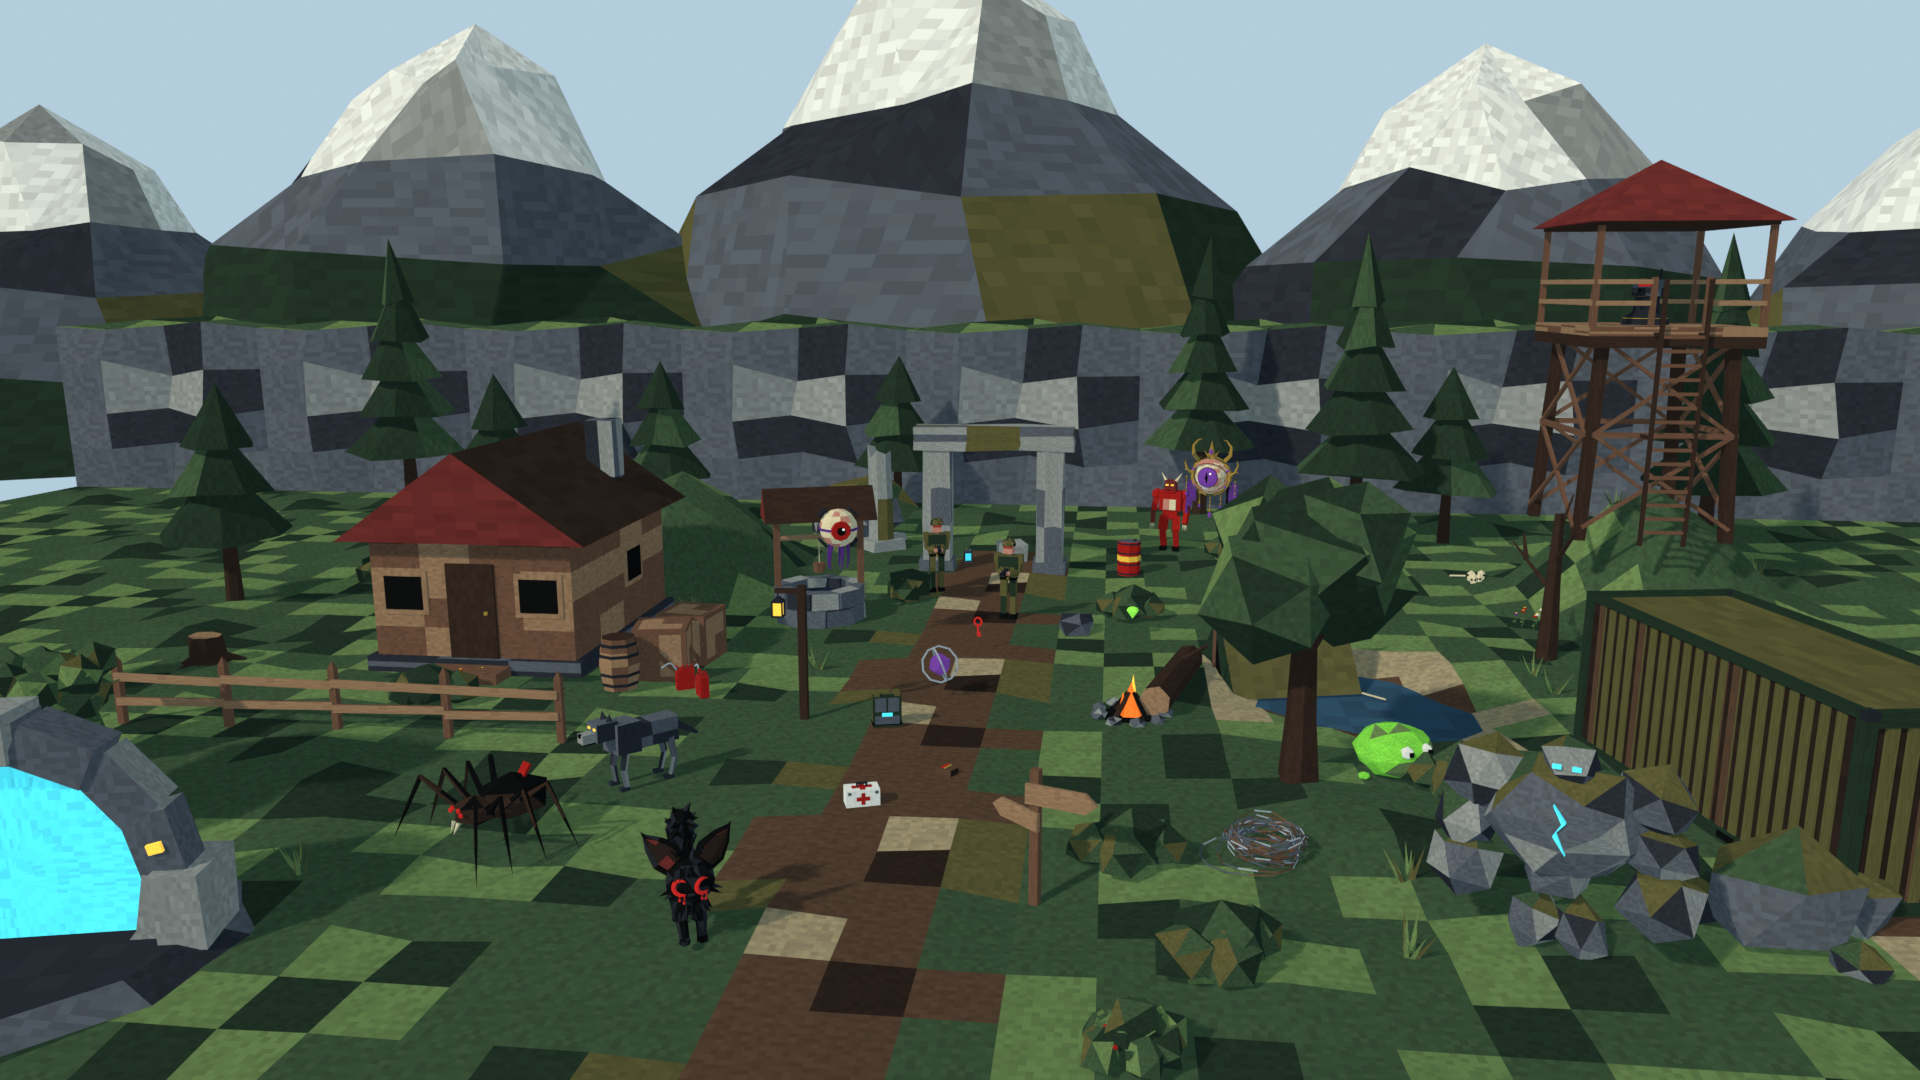
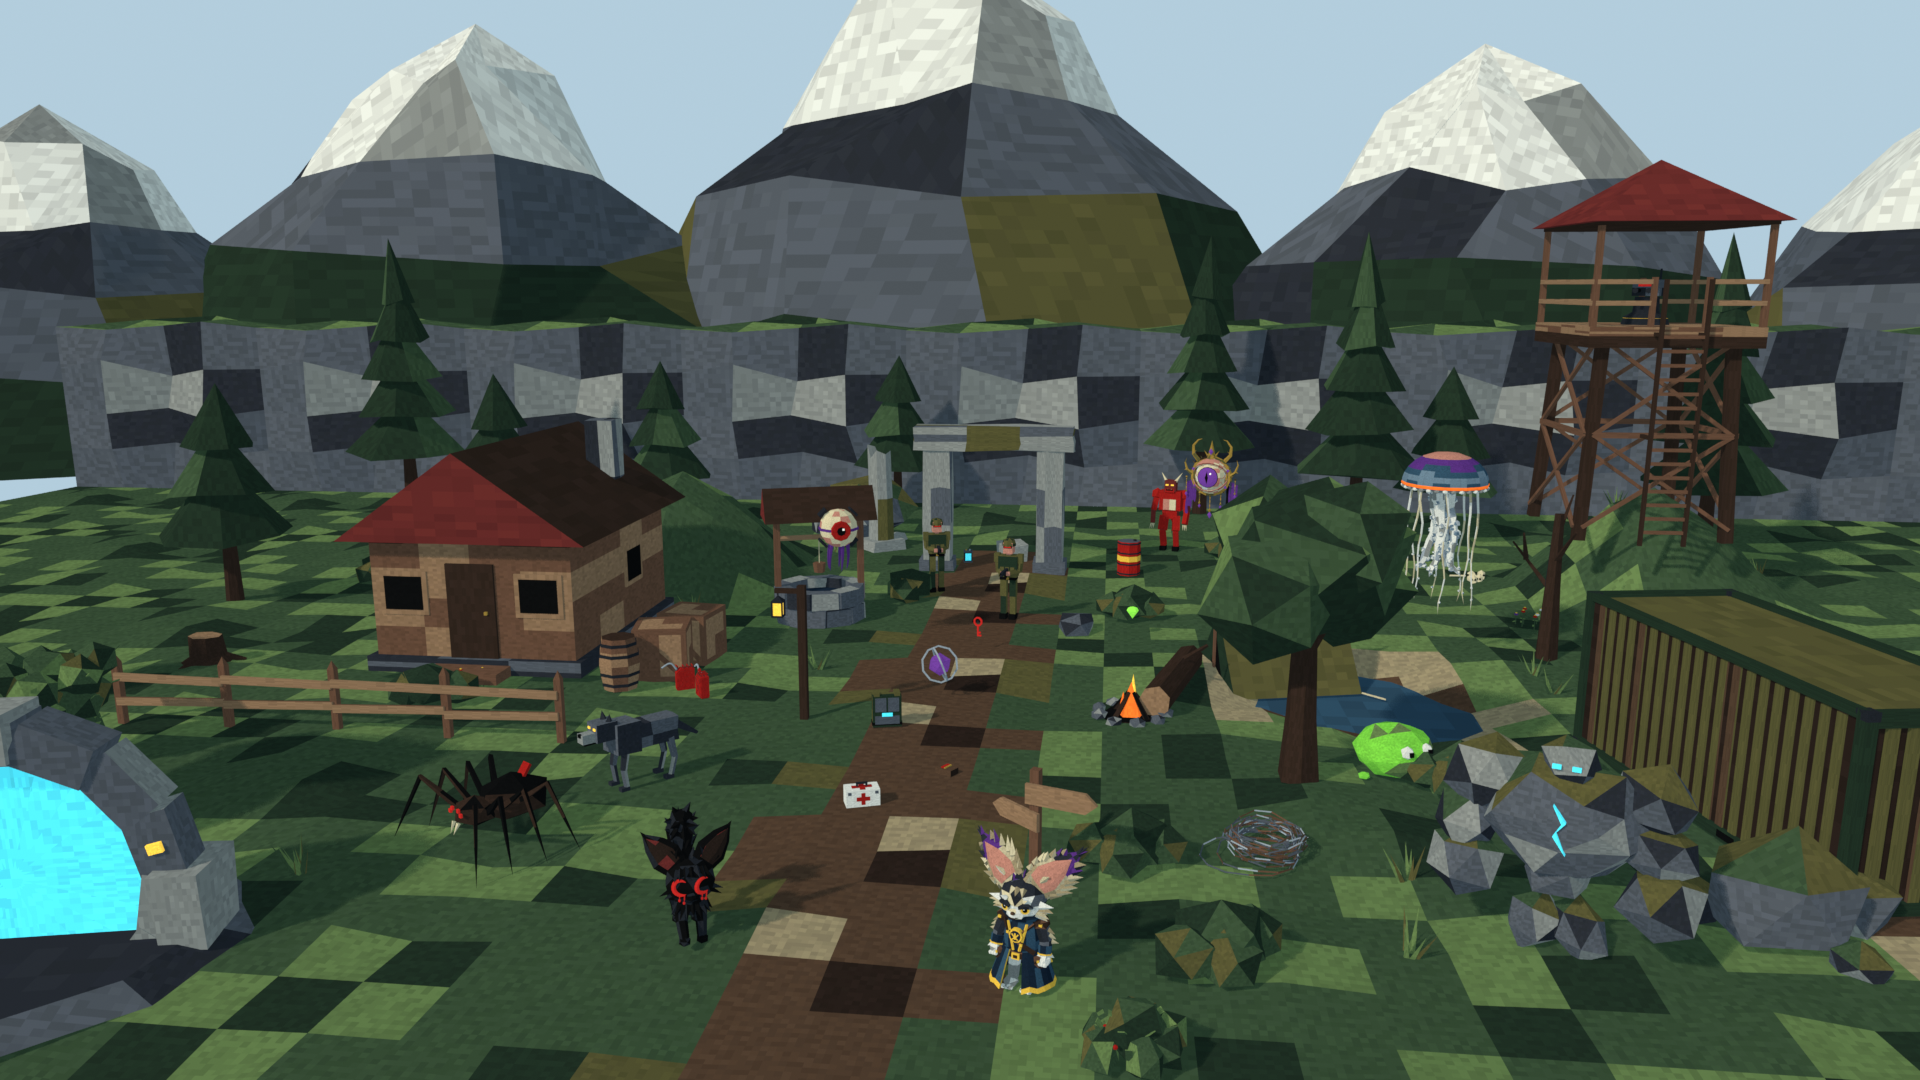
Show the lynx ranger and jellyfish in the README and the showcase
The showcase scene places the lynx ranger on the dirt path beside the shadow cat and
the jellyfish hovering over the pond, and is re-rendered. The README's intro now
describes the island and its creatures, the enemies notes list the two new models
among the rigged ones, and their thumbnails follow those notes.

Changed region(s): [[0.7188, 0.3972, 0.7812, 0.55], [0.5, 0.7639, 0.5625, 0.9167]]

diff --git a/tools/render_previews.py b/tools/render_previews.py
@@ -349,6 +349,8 @@ def showcase(cam, sun):
     place("enemy_floating_eye", -2.5, 1.5, lift=2.6, rot=20)
     place("enemy_shadow_cat", -1.8, -10.5, rot=25)
     place("enemy_arcane_eye", 5.5, 7.5, lift=3.0, rot=-20)
+    place("enemy_lynx_ranger", 2.2, -11.2, rot=-20)
+    place("enemy_jellyfish", 9.5, 1.5, lift=3.9, rot=15)
     place("pickup_medkit", -0.5, -6.5, rot=20)
     place("pickup_ammo_shells", 0.6, -5.2, rot=-30)
     place("powerup_quad_damage", 0, -1.5, lift=0.3)

diff --git a/README.md b/README.md
@@ -2,7 +2,7 @@
 
 ![In game: a rocket sets off the gas cans at the outpost, throwing barrels into the air, with a demon and a floating eye nearby](docs/screenshot.jpg)
 
-A first-person shooter with a PS1 look, made in Godot 4. Hunt floating eyes, electric rock golems and toxin-spitting giant spiders across a hilly valley of pine groves, a village, an outpost and ruins. Blow up gas cans and barrels, collect gems and step through linked portals. Every model and sound is generated by scripts in `tools/`.
+A first-person shooter with a PS1 look, made in Godot 4. Hunt floating eyes, electric rock golems and toxin-spitting giant spiders across a hilly valley of pine groves, a village, an outpost and ruins. Or visit a small island in an open sea, where a shadow cat with a spiked tail prowls the beach, a lynx ranger in a navy coat potters about, and an arcane eye and a big jellyfish drift overhead. Blow up gas cans and barrels, collect gems and step through linked portals. Every model and sound is generated by scripts in `tools/`.
 
 The game is in `godot/`. See [godot/README.md](godot/README.md) for how to run it, the controls and how the code fits together.
 
@@ -55,4 +55,6 @@ The texture sampler is set to nearest filtering. For the full PS1 look, also tur
 - **assets/pickups/**: origin at the base, sized about 0.3–0.7 m. Spin or bob them in game.
 - **assets/viewmodel/**: first-person arm parts: right and left hands closed around a pistol-style grip, a left support hand for barrels and handguards, and a forearm with a jacket sleeve. Each hand's origin is the centre of what it holds. The forearm's origin is the wrist, and it runs 0.7 m toward the elbow.
 - **assets/ammo/**: one round per ammo type (bullet, shotgun shell, rocket, plasma cell) for the HUD ammo counter. Origin at the base, standing upright, real-world scale.
-- **assets/enemies/**: origin at the feet, facing +Z. `enemy_floating_eye` has its origin at its center, so hover it in game. It, `enemy_spider`, `enemy_shadow_cat` and `enemy_arcane_eye` (below) are rigged: each of the eye's five tentacles is skinned to a four-bone chain (`tentacle_<k>_0` at the root to `tentacle_<k>_3` at the tip) under a `body` bone, and each of the spider's eight legs to two bones, `leg_<side>_<k>_0` (hip to knee) and `leg_<side>_<k>_1` (knee to toe), side `l` or `r` and k = 0 at the front, under a `body` bone that carries the rest of it, so they can be posed or animated. The other models are static meshes. `enemy_golem` has no legs: its origin is under its two hip boulders, and the game floats it on electric arcs. `enemy_shadow_cat` is a black chibi cat about 1.4 m tall to its ear tips (1.0 × 1.5 m across and long), caught mid-stride with its right forepaw raised (the raised leg's segments match the planted one's, so it can be walked): an oversized head with huge leaf-shaped ears, glowing red crescent eyes (`PS1_Glow`) that drip down its face, spiky fur at its brow, cheeks and chest, and a bushy, bristling tail curling up over its back. It's rigged for animation, with its rest pose as modeled. Sides are the cat's own: `l` is +X and `r` is -X. The bones are `hips` (the root, at the rump) > `chest` > `neck` > `head` > `ear_<side>_0` > `ear_<side>_1` (each ear bends a third of the way up). The front legs hang from `chest` as `leg_f<side>_0` (shoulder to elbow) > `leg_f<side>_1` (to the wrist) > `paw_f<side>`. The hind legs hang from `hips` as `leg_b<side>_0` (hip to knee) > `leg_b<side>_1` (to the hock) > `leg_b<side>_2` (to the ankle) > `paw_b<side>`. The tail is a chain from `hips`, `tail_0` at its root to `tail_5` at its tip. The eyes and head tufts follow `head`, the chest ruff `chest`, and each tail tuft the joint it grows from. Joints are skinned half to each neighbouring bone, so they bend smoothly. The game walks it around the island and gives it its tail attack, including the spikes (`godot/scripts/enemies/shadow_cat.gd`). `enemy_arcane_eye` is an ornate floating eye, about 1.4 m across, 1 m deep and 2 m tall with its hangings, with its origin at the eyeball's center (hover it in game): a pale, veined eyeball with a glowing violet iris (`PS1_Glow`), a black slit pupil and a white glint, set in a thorny brass frame with crescent horns, a crowned gem on top and violet gems round the rim. From behind, a brass cage holds the eyeball. One thorny strap runs from the crown over the back to the bottom of the rim and another runs across from side to side. Where they cross sits a medallion of brass rings and spikes round a violet gem, and two violet sashes are draped across the back from the upper corners. Five chains hang from the frame, each ending in a violet crystal, and tattered violet cloth hangs at each side. It's rigged so every hanging can swing and bend. `body` (the eye and frame) carries each chain as `pendant_<k>_0` > `pendant_<k>_1` > `pendant_<k>_2`, top to bottom with the crystal on the last bone (k = 0 to 4 from left to right). It also carries each of the ten cloth strips as `cloth_<side>_<k>_0` > `_1` > `_2`, top to bottom (`l` at -X and `r` at +X as seen from the front, k = 0 to 4 from the inside out). Each chain link follows one bone, and the cloth bends smoothly between its bones. It has fleshy eyelids with a dark red rim, each on its own bone hinged at the eye's center (`lid_upper` and `lid_lower`). At rest they're open, folded back above and below the iris. Turning them 50° about X (`LID_OPEN` in the generator), upper down and lower up, shuts them across the middle of the eye. It has no attack: the game floats it about the island (`godot/scripts/enemies/arcane_eye.gd`). `enemy_lynx_ranger` is a chibi lynx kit in a ranger's coat, about 1.7 m tall to its ear tips (1.3 m across the ears), modeled on a piece of concept art. It has an oversized head with huge splayed ears: tan-brown behind shading to dark purple tips, pink inside, and fringed with tan fur. Its amber eyes are half-lidded under heavy dark lids, with a smug smirk below, a cream muzzle, cheek fluff and a dark crest with tan locks. Its navy coat is open at the front over grey legs, with gold front edges and a scalloped gold hem, and a gold diamond and arcs on the back. It also has a rolled collar over a white shirt, a gold medallion, a leather bandolier, a hip belt with a gold buckle and pouches, leather shoulder guards, furry dark sleeves with gold-edged navy bracers, white paws and big grey toed feet. It's rigged for animation, with its rest pose as modeled and the arms hanging. Sides are its own: `l` is +X and `r` is -X. The bones are `hips` (the root, at the waist) > `chest` > `head` > `ear_<side>_0` > `ear_<side>_1` (each ear bends a third of the way up). The arms hang from `chest` as `arm_<side>_0` (shoulder to elbow) > `arm_<side>_1` (to the wrist) > `hand_<side>`. The legs hang from `hips` as `leg_<side>_0` (hip to knee) > `leg_<side>_1` (to the ankle) > `foot_<side>`. The coat's skirt, belt and pouches follow `hips`. The torso blends from `hips` to `chest` up the waist, and the collar, straps, medallion and shoulder guards follow `chest`. Everything on the head follows `head`, and joints are skinned across their neighbouring bones so they bend smoothly. The game has it stroll about the island (`godot/scripts/enemies/lynx_ranger.gd`). `enemy_jellyfish` is a big jellyfish, about 1.6 m across its bell and 3.2 m tall with its tentacles, with its origin at the middle of the bell's rim (hover it in game). Its domed bell shades from a pinkish crown through violet to ribbed blue round its sides. A glowing orange band (`PS1_Glow`) runs above a scalloped rim of pale lappets. Under it hang four frilly oral arms, pale and studded with bulbs and curling at their ends, and eight long pale ribbon tentacles from just inside the rim. It's rigged so it can pulse and its hangings can swing. `body` (the root) carries `bell`, which the game scales to pulse the bell. Each hanging is a chain of equal bones hanging straight down at rest, top to bottom: `arm_<k>_0` to `arm_<k>_4` for the oral arms (k = 0 to 3) and `tentacle_<k>_0` to `tentacle_<k>_3` for the tentacles (k = 0 to 7), each skinned smoothly along its bones. The game has it swim through the air over the island (`godot/scripts/enemies/jellyfish.gd`).
+- **assets/enemies/**: origin at the feet, facing +Z. `enemy_floating_eye` has its origin at its center, so hover it in game. It, `enemy_spider`, `enemy_shadow_cat`, `enemy_arcane_eye`, `enemy_lynx_ranger` and `enemy_jellyfish` (below) are rigged: each of the eye's five tentacles is skinned to a four-bone chain (`tentacle_<k>_0` at the root to `tentacle_<k>_3` at the tip) under a `body` bone, and each of the spider's eight legs to two bones, `leg_<side>_<k>_0` (hip to knee) and `leg_<side>_<k>_1` (knee to toe), side `l` or `r` and k = 0 at the front, under a `body` bone that carries the rest of it, so they can be posed or animated. The other models are static meshes. `enemy_golem` has no legs: its origin is under its two hip boulders, and the game floats it on electric arcs. `enemy_shadow_cat` is a black chibi cat about 1.4 m tall to its ear tips (1.0 × 1.5 m across and long), caught mid-stride with its right forepaw raised (the raised leg's segments match the planted one's, so it can be walked): an oversized head with huge leaf-shaped ears, glowing red crescent eyes (`PS1_Glow`) that drip down its face, spiky fur at its brow, cheeks and chest, and a bushy, bristling tail curling up over its back. It's rigged for animation, with its rest pose as modeled. Sides are the cat's own: `l` is +X and `r` is -X. The bones are `hips` (the root, at the rump) > `chest` > `neck` > `head` > `ear_<side>_0` > `ear_<side>_1` (each ear bends a third of the way up). The front legs hang from `chest` as `leg_f<side>_0` (shoulder to elbow) > `leg_f<side>_1` (to the wrist) > `paw_f<side>`. The hind legs hang from `hips` as `leg_b<side>_0` (hip to knee) > `leg_b<side>_1` (to the hock) > `leg_b<side>_2` (to the ankle) > `paw_b<side>`. The tail is a chain from `hips`, `tail_0` at its root to `tail_5` at its tip. The eyes and head tufts follow `head`, the chest ruff `chest`, and each tail tuft the joint it grows from. Joints are skinned half to each neighbouring bone, so they bend smoothly. The game walks it around the island and gives it its tail attack, including the spikes (`godot/scripts/enemies/shadow_cat.gd`). `enemy_arcane_eye` is an ornate floating eye, about 1.4 m across, 1 m deep and 2 m tall with its hangings, with its origin at the eyeball's center (hover it in game): a pale, veined eyeball with a glowing violet iris (`PS1_Glow`), a black slit pupil and a white glint, set in a thorny brass frame with crescent horns, a crowned gem on top and violet gems round the rim. From behind, a brass cage holds the eyeball. One thorny strap runs from the crown over the back to the bottom of the rim and another runs across from side to side. Where they cross sits a medallion of brass rings and spikes round a violet gem, and two violet sashes are draped across the back from the upper corners. Five chains hang from the frame, each ending in a violet crystal, and tattered violet cloth hangs at each side. It's rigged so every hanging can swing and bend. `body` (the eye and frame) carries each chain as `pendant_<k>_0` > `pendant_<k>_1` > `pendant_<k>_2`, top to bottom with the crystal on the last bone (k = 0 to 4 from left to right). It also carries each of the ten cloth strips as `cloth_<side>_<k>_0` > `_1` > `_2`, top to bottom (`l` at -X and `r` at +X as seen from the front, k = 0 to 4 from the inside out). Each chain link follows one bone, and the cloth bends smoothly between its bones. It has fleshy eyelids with a dark red rim, each on its own bone hinged at the eye's center (`lid_upper` and `lid_lower`). At rest they're open, folded back above and below the iris. Turning them 50° about X (`LID_OPEN` in the generator), upper down and lower up, shuts them across the middle of the eye. It has no attack: the game floats it about the island (`godot/scripts/enemies/arcane_eye.gd`). `enemy_lynx_ranger` is a chibi lynx kit in a ranger's coat, about 1.7 m tall to its ear tips (1.3 m across the ears), modeled on a piece of concept art. It has an oversized head with huge splayed ears: tan-brown behind shading to dark purple tips, pink inside, and fringed with tan fur. Its amber eyes are half-lidded under heavy dark lids, with a smug smirk below, a cream muzzle, cheek fluff and a dark crest with tan locks. Its navy coat is open at the front over grey legs, with gold front edges and a scalloped gold hem, and a gold diamond and arcs on the back. It also has a rolled collar over a white shirt, a gold medallion, a leather bandolier, a hip belt with a gold buckle and pouches, leather shoulder guards, furry dark sleeves with gold-edged navy bracers, white paws and big grey toed feet. It's rigged for animation, with its rest pose as modeled and the arms hanging. Sides are its own: `l` is +X and `r` is -X. The bones are `hips` (the root, at the waist) > `chest` > `head` > `ear_<side>_0` > `ear_<side>_1` (each ear bends a third of the way up). The arms hang from `chest` as `arm_<side>_0` (shoulder to elbow) > `arm_<side>_1` (to the wrist) > `hand_<side>`. The legs hang from `hips` as `leg_<side>_0` (hip to knee) > `leg_<side>_1` (to the ankle) > `foot_<side>`. The coat's skirt, belt and pouches follow `hips`. The torso blends from `hips` to `chest` up the waist, and the collar, straps, medallion and shoulder guards follow `chest`. Everything on the head follows `head`, and joints are skinned across their neighbouring bones so they bend smoothly. The game has it stroll about the island (`godot/scripts/enemies/lynx_ranger.gd`). `enemy_jellyfish` is a big jellyfish, about 1.6 m across its bell and 3.2 m tall with its tentacles, with its origin at the middle of the bell's rim (hover it in game). Its domed bell shades from a pinkish crown through violet to ribbed blue round its sides. A glowing orange band (`PS1_Glow`) runs above a scalloped rim of pale lappets. Under it hang four frilly oral arms, pale and studded with bulbs and curling at their ends, and eight long pale ribbon tentacles from just inside the rim. It's rigged so it can pulse and its hangings can swing. `body` (the root) carries `bell`, which the game scales to pulse the bell. Each hanging is a chain of equal bones hanging straight down at rest, top to bottom: `arm_<k>_0` to `arm_<k>_4` for the oral arms (k = 0 to 3) and `tentacle_<k>_0` to `tentacle_<k>_3` for the tentacles (k = 0 to 7), each skinned smoothly along its bones. The game has it swim through the air over the island (`godot/scripts/enemies/jellyfish.gd`).
+
+  <img src="assets/previews/models/enemy_lynx_ranger.png" alt="Lynx Ranger: a chibi lynx kit with huge fur-fringed ears in a navy coat with gold trim, a medallion and a leather bandolier" width="300"> <img src="assets/previews/models/enemy_jellyfish.png" alt="Jellyfish: a domed pink-to-blue bell with a glowing orange band, frilly oral arms and long pale tentacles" width="300">
